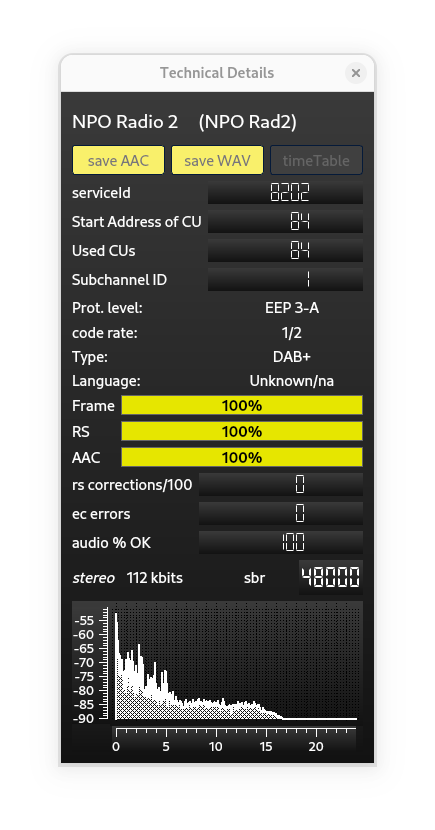
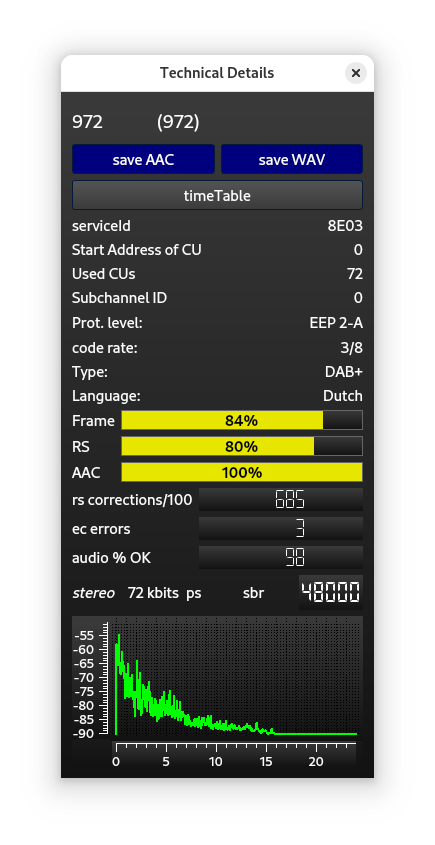
updated technical widget

Changed region(s): [[0.1494, 0.0602, 0.8667, 0.9337], [0.8069, 0.0602, 0.8368, 0.1205]]

diff --git a/README.md b/README.md
@@ -129,11 +129,21 @@ is shown as well.
 The buttons at the top of the widget control dumping the audio
 (".wav" file) resp. the AAC frames into a file. The latter can be processed
 by e.g. VLC.
+The **timeTable** button has only effect if on this channel (ensemble) an EPG 
+service is of was active. Data from the EPG service is stored, and the
+timetable is an interpretation of that data.
+
 The three progress bars (quality indicators) for DAB+ give success rates of
 resp. detecting a DAB+ frame, the RS error repair and the AAC decoding.
 (For "old" DAB transmissions only a single quality indicator appears).
 
-Below the progress bars the *rsCorrections/100* indicator show how the amount of corrections that was made by the Reed-Solomon detector in the last 100 AAC frames. Of course, the parity bits used by the RS decoding may contain bit errors themselves, the second indicator shows the amount of CRC errors detected after thecorrection by the RS decosing.
+Below the progress bars the *rsCorrections/100* indicator show how the amount of corrections that was made by the Reed-Solomon detector in the last 100 AAC frames.
+Of course, the parity bits used by the RS decoding may contain bit errors themselves, the second indicator shows the amount of CRC errors detected after thecorrection by the RS decoding.
+
+The third indicator tells the percentage of the audio that was OK. If - for
+whatever reason - the audio frames in the selected audio service could not
+be translated into PCM data, NULL values are inserted to ensure that the
+demands of the outputrate are met.
 
 ![6.8](/res/read_me/spectrum-scope.png)
 
